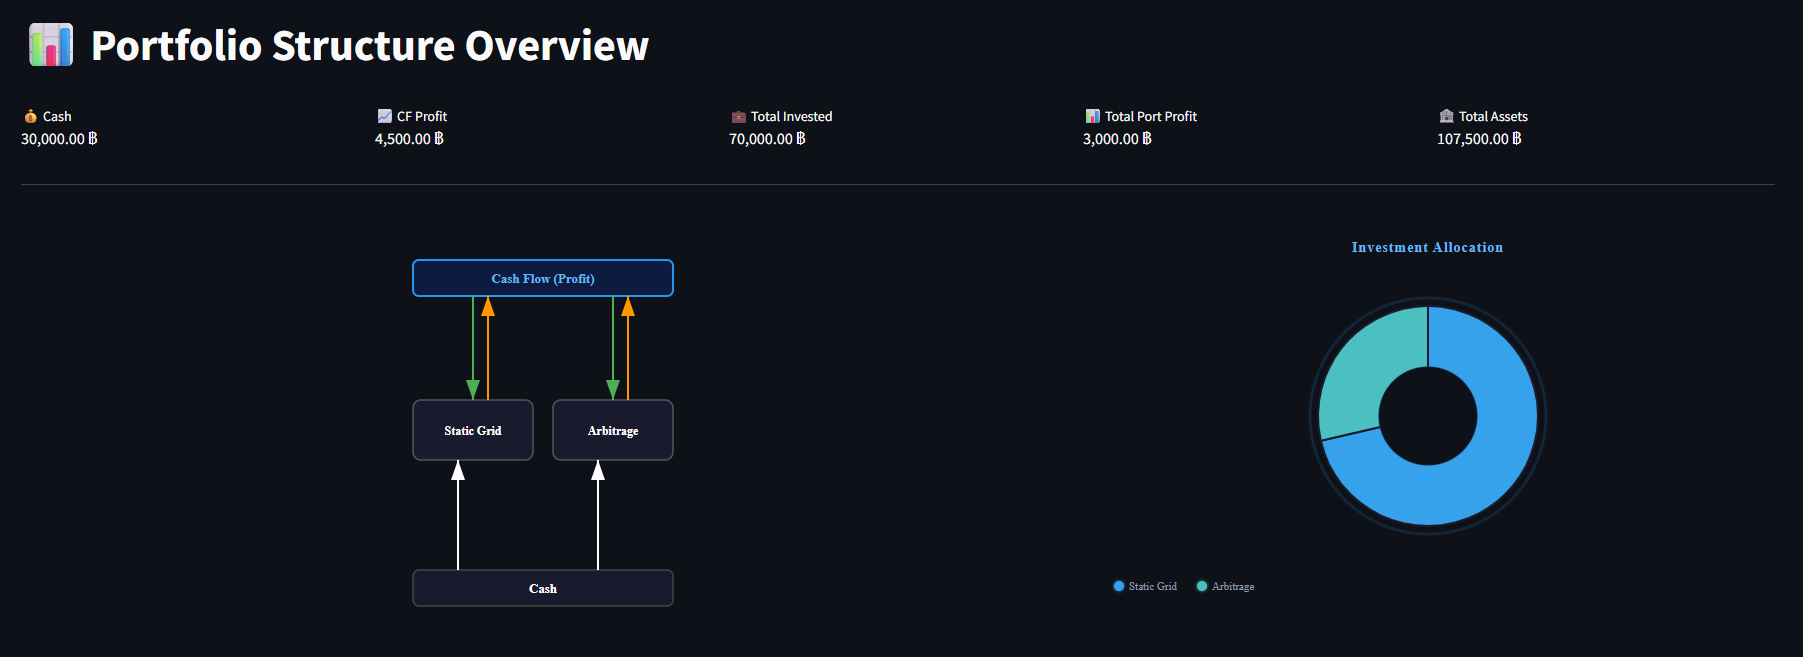
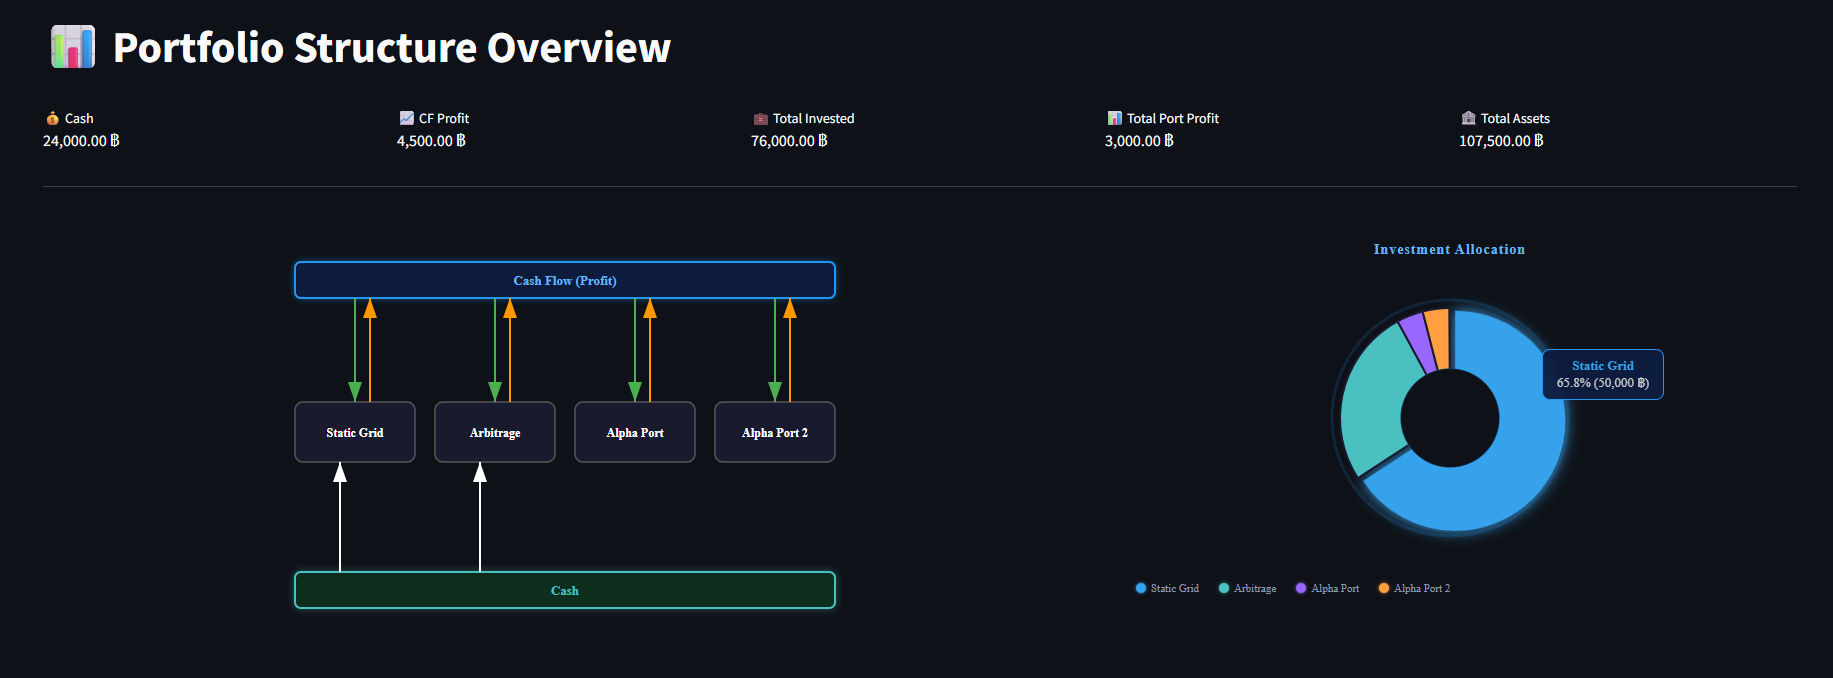
update UI

diff --git a/frontend/pages/overview.py b/frontend/pages/overview.py
@@ -56,6 +56,18 @@ else:
         svg = f'<svg width="{svg_w}" height="{svg_h}" viewBox="0 0 {svg_w} {svg_h}" '
         svg += 'xmlns="http://www.w3.org/2000/svg" style="max-width:100%;height:auto;">'
         svg += '''<defs>
+          <filter id="glow-blue" x="-20%" y="-20%" width="140%" height="140%">
+            <feGaussianBlur stdDeviation="4" result="blur"/>
+            <feFlood flood-color="#2196F3" flood-opacity="0.4"/>
+            <feComposite in2="blur" operator="in"/>
+            <feMerge><feMergeNode/><feMergeNode in="SourceGraphic"/></feMerge>
+          </filter>
+          <filter id="glow-green" x="-20%" y="-20%" width="140%" height="140%">
+            <feGaussianBlur stdDeviation="4" result="blur"/>
+            <feFlood flood-color="#4BC0C0" flood-opacity="0.4"/>
+            <feComposite in2="blur" operator="in"/>
+            <feMerge><feMergeNode/><feMergeNode in="SourceGraphic"/></feMerge>
+          </filter>
           <marker id="ah-white" markerWidth="10" markerHeight="7" refX="10" refY="3.5" orient="auto">
             <polygon points="0 0, 10 3.5, 0 7" fill="white"/></marker>
           <marker id="ah-green" markerWidth="10" markerHeight="7" refX="10" refY="3.5" orient="auto">
@@ -65,13 +77,13 @@ else:
         </defs>'''
         svg += f'''
         <rect x="{start_x}" y="{profit_y}" width="{total_ports_w}" height="36" rx="6"
-              fill="#0d1b3e" stroke="#2196F3" stroke-width="2"/>
+              fill="#0d1b3e" stroke="#2196F3" stroke-width="2" filter="url(#glow-blue)"/>
         <text x="{start_x + total_ports_w/2}" y="{profit_y + 23}" text-anchor="middle"
               fill="#64B5F6" font-size="13" font-weight="bold">Cash Flow (Profit)</text>
         <rect x="{start_x}" y="{cash_y}" width="{total_ports_w}" height="36" rx="6"
-              fill="#1a1a2e" stroke="#444" stroke-width="1.5"/>
+              fill="#0a2e1a" stroke="#4BC0C0" stroke-width="2" filter="url(#glow-green)"/>
         <text x="{start_x + total_ports_w/2}" y="{cash_y + 23}" text-anchor="middle"
-              fill="white" font-size="13" font-weight="bold">Cash</text>'''
+              fill="#4BC0C0" font-size="13" font-weight="bold">Cash</text>'''
 
         for i, port in enumerate(ports):
             px = start_x + i * (box_w + gap)

diff --git a/README.md b/README.md
@@ -28,13 +28,13 @@ A web application for visualizing and managing investment portfolio structure.
 ### Overview Dashboard
 
 <!-- Add Overview screenshot heree -->
-![alt text](image-1.png)
+![alt text](image.png)
 ![alt text](image-2.png)
 
 ### Manage Ports
 
 <!-- Add Manage screenshot here -->
-![alt text](image-6.png)
+![alt text](image-4.png)
 ![alt text](image-7.png)
 
 ### Asset Tracking
